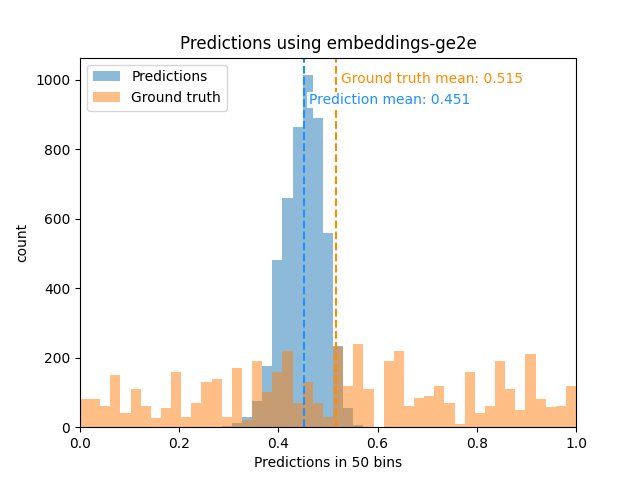
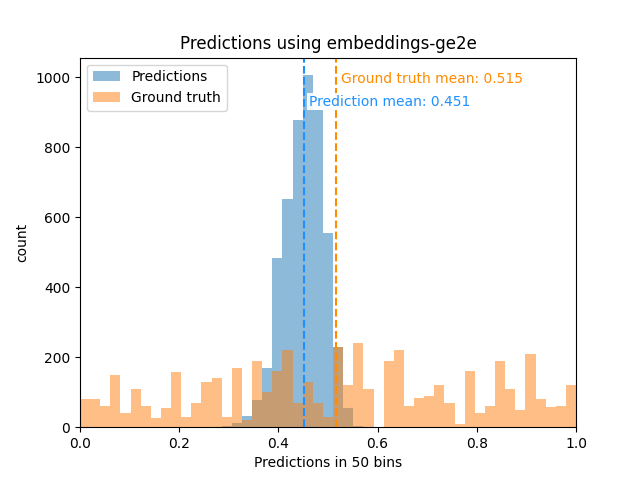
experiment 2 setup

diff --git a/demo.py b/demo.py
@@ -1,6 +1,6 @@
 import os
 import pickle
-from cross_validation_generator import load_feature_stream, get_folds
+from cross_validation_generator import load_feature_stream, load_samples
 import numpy as np
 from tensorflow.keras.models import load_model
 from matplotlib import pyplot as plt
@@ -13,9 +13,11 @@ def load_features(feature_type, timeseries=False, dataset='demo'):
     returns it together with filenames and ground truths (if existent).
     """
     if dataset is 'split-10':
-        x_train, y_train, x_val, y_val = get_folds(feature_type, dataset, folds=1).__next__()
-        features = x_train + x_val
-        return features, len(features) * [''], y_train + y_val
+        samples = load_samples(feature_type, dataset, timeseries)
+        features = [s.feature for s in samples]
+        truths = [s.Speaker.quality for s in samples]
+        filenames = [f"{'/'.join(s.speaker, s.article, s.section)}.wav" for s in samples]
+        return features, filenames, truths
     features = []
     filenames = []
     for root, _, files in os.walk(os.path.join('wavs', dataset)):
@@ -81,10 +83,12 @@ def plot_predictions_as_histogram(predictions, truths, feature_type, dataset):
     if truths[0] >= 0:
         plt.hist(truths, bins=bins, alpha=0.5, label='Ground truth')
         plt.axvline(x=mean(truths), color='darkorange', linestyle='--')
-        plt.text(mean(truths) + 0.01, 990, f'Ground truth mean: {mean(truths):.3f}', color='darkorange',
+        plt.text(mean(truths) + 0.01, 0.93, f'Ground truth mean: {mean(truths):.3f}',
+                 transform=plt.gca().transAxes, color='darkorange',
                  bbox=dict(facecolor='white', alpha=0.9, edgecolor='none', pad=1))
     plt.axvline(x=mean(predictions), color='dodgerblue', linestyle='--')
-    plt.text(mean(predictions) + 0.01, 920, f'Prediction mean: {mean(predictions):.3f}', color='dodgerblue',
+    plt.text(mean(predictions) + 0.01, 0.87, f'Prediction mean: {mean(predictions):.3f}',
+             transform=plt.gca().transAxes, color='dodgerblue',
              bbox=dict(facecolor='white', alpha=0.9, edgecolor='none', pad=1))
     plt.title(f'Predictions using {feature_type}')
     plt.xlabel('Predictions in 50 bins')

diff --git a/keras_quality_estimator.py b/keras_quality_estimator.py
@@ -28,8 +28,8 @@ DROPOUT_RATE = 0.5
 CROSS_VAL = 10
 ES_PATIENCE = 2
 LOSS = "mean_squared_error"
-USE_LSTM = True
-FEATURE_TYPE = "embeddings-trill"  # embeddings-ge2e, embeddings-trill, feature-streams (embeddings dir name)
+USE_LSTM = False
+FEATURE_TYPE = "embeddings-ge2e"  # embeddings-ge2e, embeddings-trill, feature-streams (embeddings dir name)
 FEATURE_DIR = "split-10"  # split-10, ... (subdir name in ./wavs)
 
 seed = random.randint(0, 100000)
@@ -41,6 +41,7 @@ run_name = generate_id(word_count=3)
 print(f"Starting run {run_name} ...")
 
 best_loss_per_fold = []
+predictions = []
 
 for i in range(1, CROSS_VAL + 1):
     # run = wandb.init(
@@ -162,7 +163,12 @@ for i in range(1, CROSS_VAL + 1):
     print(best_loss_per_fold)
     print(f'Average best loss:{mean(best_loss_per_fold)}')
 
+    predictions += model.predict(x_val)
+
 model.save(f"models/{FEATURE_TYPE}{'-LSTM' if LSTM else ''}-{mean(best_loss_per_fold):.4f}-{run_name}")
+
+print(predictions)
+print(len(predictions))
 
     # if i == CROSS_VAL:
     #     run.log({"avg_best_loss": mean(best_loss_per_fold)})
